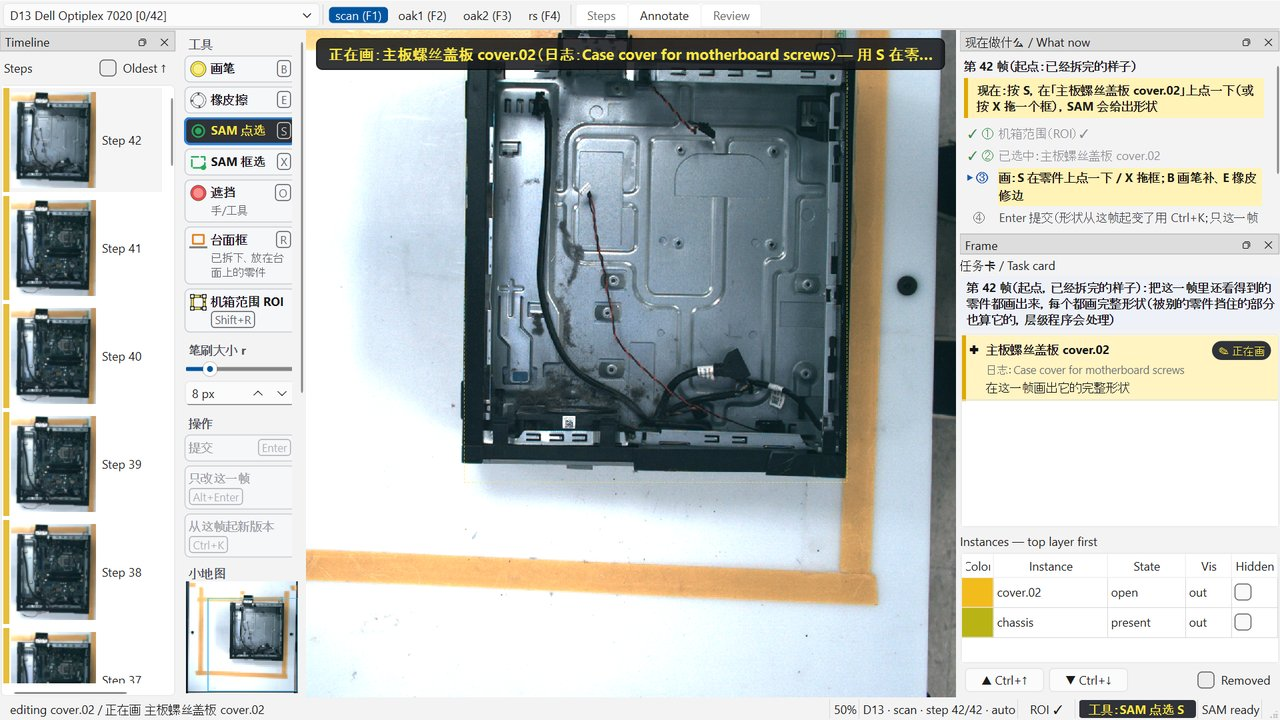
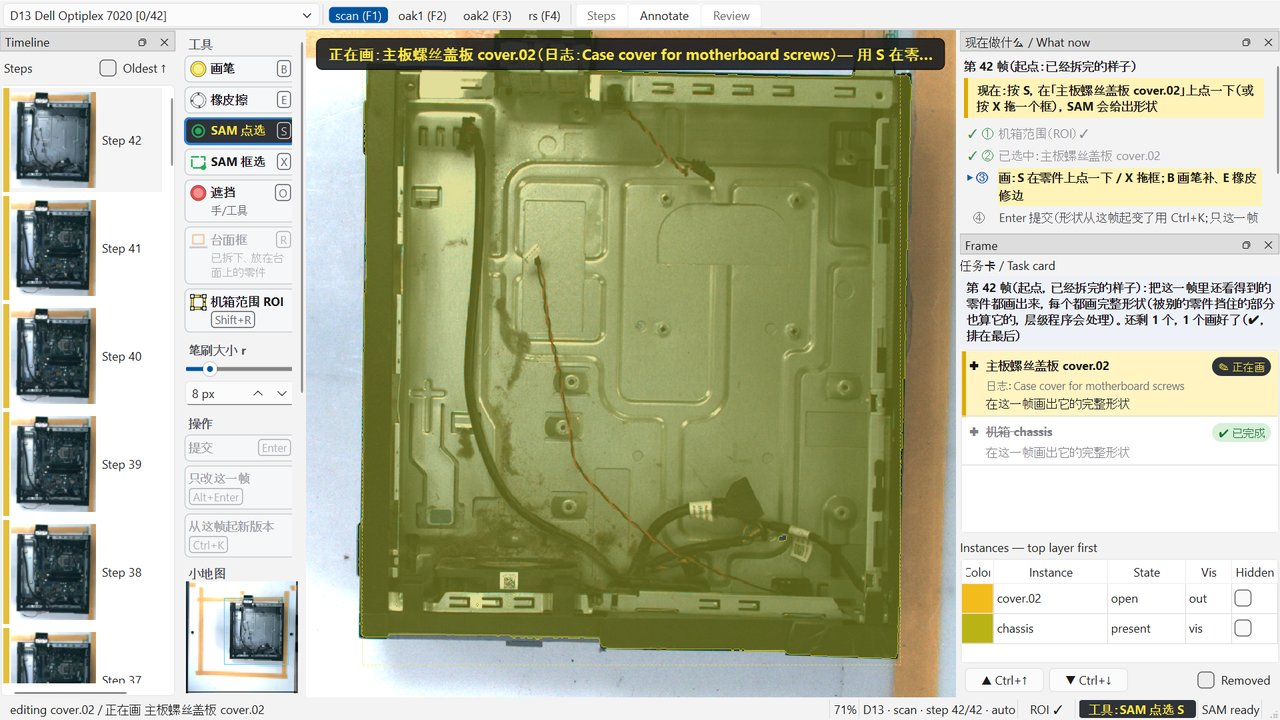
docs: U2b round 3 -- the quickstart as the DB is today, screenshots re-shot
Steps 2 and 33 (remove) and drive_latch.01 (rides the cage) are presented
as decided, with the Steps table as the place to change them; the
out-of-view note and the "press F" lines are gone; step 42 shows the
chassis ✔ row; the digit keys' feedback is described. Every u2b_*.jpg is
re-shot from the round-3 UI on the fresh copy of the trial DB.

diff --git a/docs/annotation_guide.md b/docs/annotation_guide.md
@@ -58,7 +58,8 @@ D:\Anaconda\envs\tda\python.exe -m tda.cli app --annotator chang --desktop 13 --
 **就在这张图上**画。卡片顶上一句按条目种类说（只有 ≡ 就是"不用画，直接 Space"）；每条写中文名、
 实例键、日志里的名字、一句要做什么和状态（待画 / ✎ 正在画 / ✔ 已完成）。`Tab` 闪回 j+1，差异图
 也拿 j+1 比（缺帧时跨过去，状态栏会说）。图标（标题提示里有）：✚ 画回去；✂ 形状变了，`Ctrl+K`
-提交（j+1 的形状延伸过来不算完成）；≡ 只是状态变，不用画；
+提交（j+1 的形状延伸过来不算完成，只贴可见性标签也不算）；≡ 只是状态变，不用画；起点帧画好的
+排在后面标 ✔；
 ▭ 在台面上，单击这条把台面框武装给它（没武装时 `R` 只认这一帧确实在台面上的选中实例）；⌫ 台面框
 到此为止；✔ 这帧没东西可画，直接 `Space`。鼠标停在一条上，画面用虚线框标出它大概在哪（它上一帧
 的形状 / 差异最大处 / 这一位姿段里离差异最近的至多 5 个同类旧草稿），只显示，不改任何状态。
@@ -258,7 +259,8 @@ D:\Anaconda\envs\tda\python.exe -m tda.cli check --desktop 13 --view scan
 
 <!-- shortcuts:end -->
 
-> 数字键 `1`–`7` 留给可见性（一帧要按几十次），视图用 `F1`–`F4`。
+> 数字键 `1`–`7` 留给可见性（一帧要按几十次），视图用 `F1`–`F4`。每按一次状态栏和画布都说改成了
+> 什么（`Ctrl+Z` 撤销）；画好的零件被设成看不见时实例表标 ⚠。
 
 ---
 
